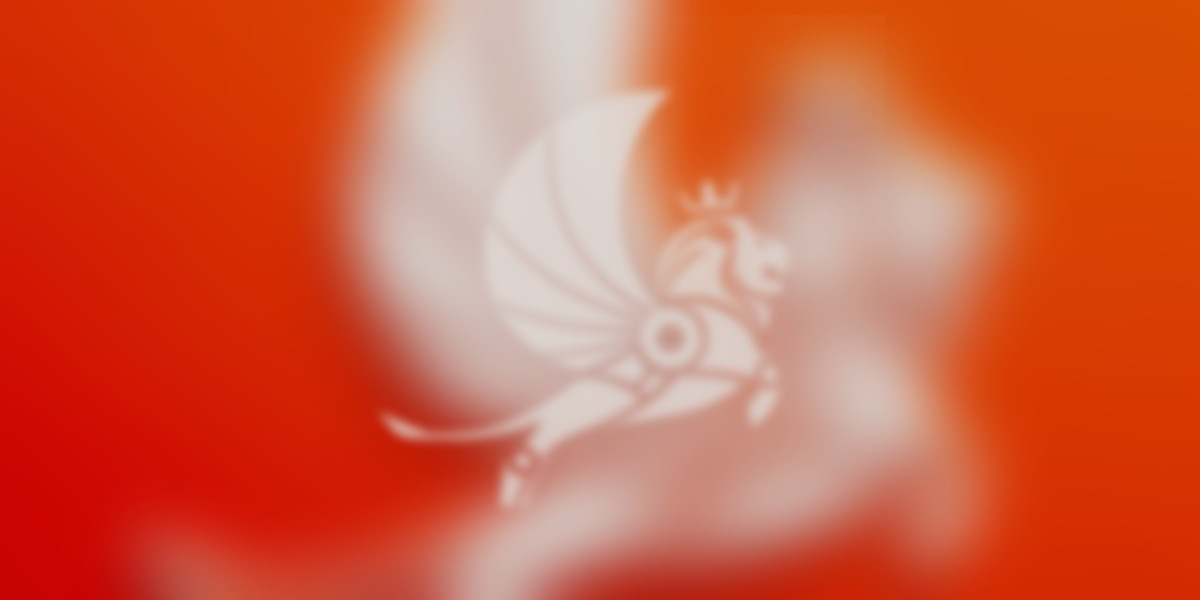
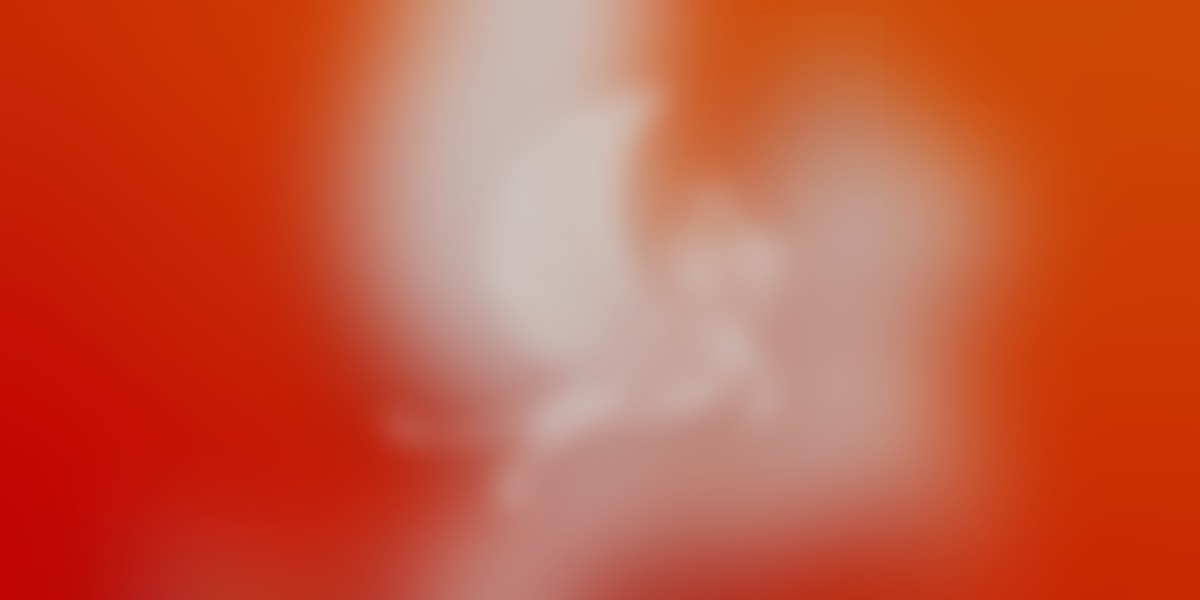
design: adapt widget artwork for clear appearance

diff --git a/apps/ios/App/AttendanceWidget/AttendanceWidget.swift b/apps/ios/App/AttendanceWidget/AttendanceWidget.swift
@@ -96,6 +96,8 @@ private struct AttendanceProvider: TimelineProvider {
 }
 
 private struct AttendanceWidgetView: View {
+    @Environment(\.widgetRenderingMode) private var renderingMode
+
     let entry: AttendanceEntry
 
     private struct WeekDay: Identifiable {
@@ -147,6 +149,7 @@ private struct AttendanceWidgetView: View {
            let image = UIImage(contentsOfFile: url.path) {
             Image(uiImage: image)
                 .resizable()
+                .widgetAccentedRenderingMode(.fullColor)
                 .scaledToFill()
         } else {
             LinearGradient(
@@ -169,9 +172,23 @@ private struct AttendanceWidgetView: View {
                         .foregroundStyle(Color.white)
                     Text(day.number)
                         .font(.caption.monospacedDigit().weight(.medium))
-                        .foregroundStyle(Color.white)
+                        .foregroundStyle(day.isToday && renderingMode != .fullColor ? Color.black.opacity(0.76) : Color.white)
                         .frame(width: 27, height: 27)
-                        .background(day.isToday ? Color.white.opacity(0.24) : Color.clear, in: Circle())
+                        .background {
+                            if day.isToday {
+                                Circle()
+                                    .fill(
+                                        renderingMode == .fullColor
+                                            ? Color(red: 0.92, green: 0.12, blue: 0.18)
+                                            : Color.white.opacity(0.92)
+                                    )
+                                    .overlay {
+                                        Circle()
+                                            .stroke(Color.white.opacity(0.95), lineWidth: 2)
+                                    }
+                                    .shadow(color: .black.opacity(0.26), radius: 6, y: 2)
+                            }
+                        }
                 }
                 .frame(maxWidth: .infinity)
             }
